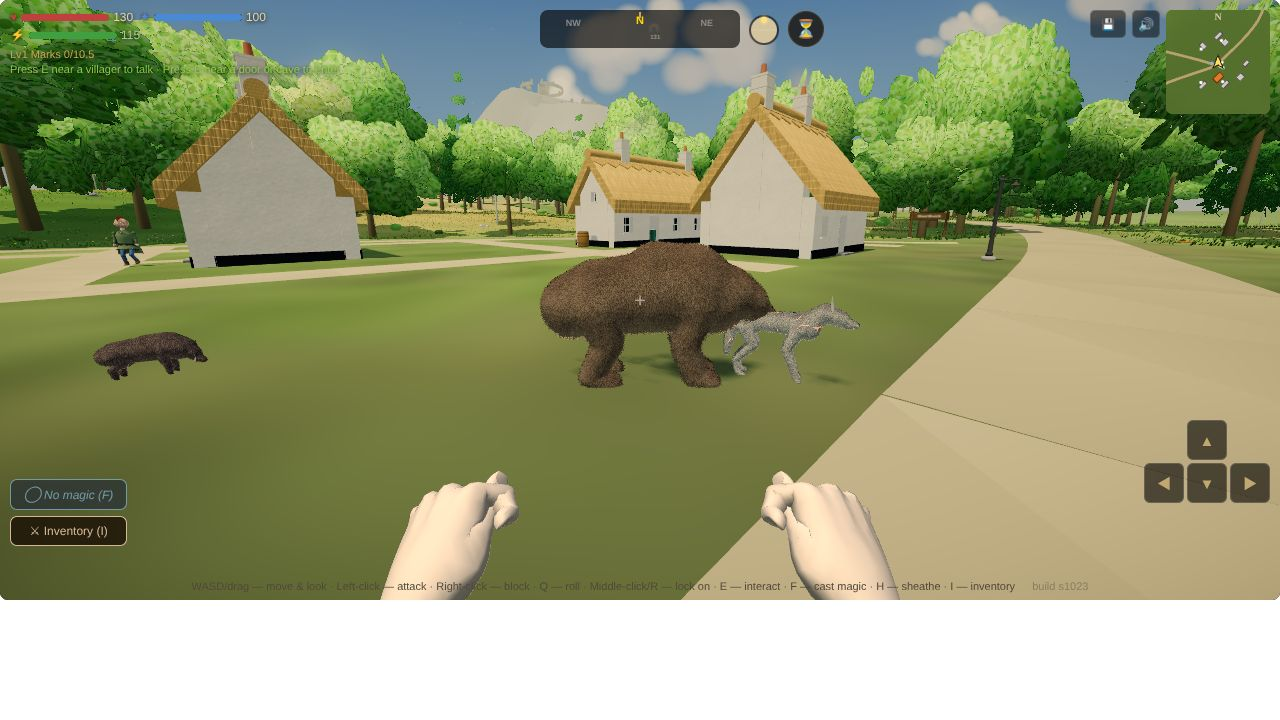
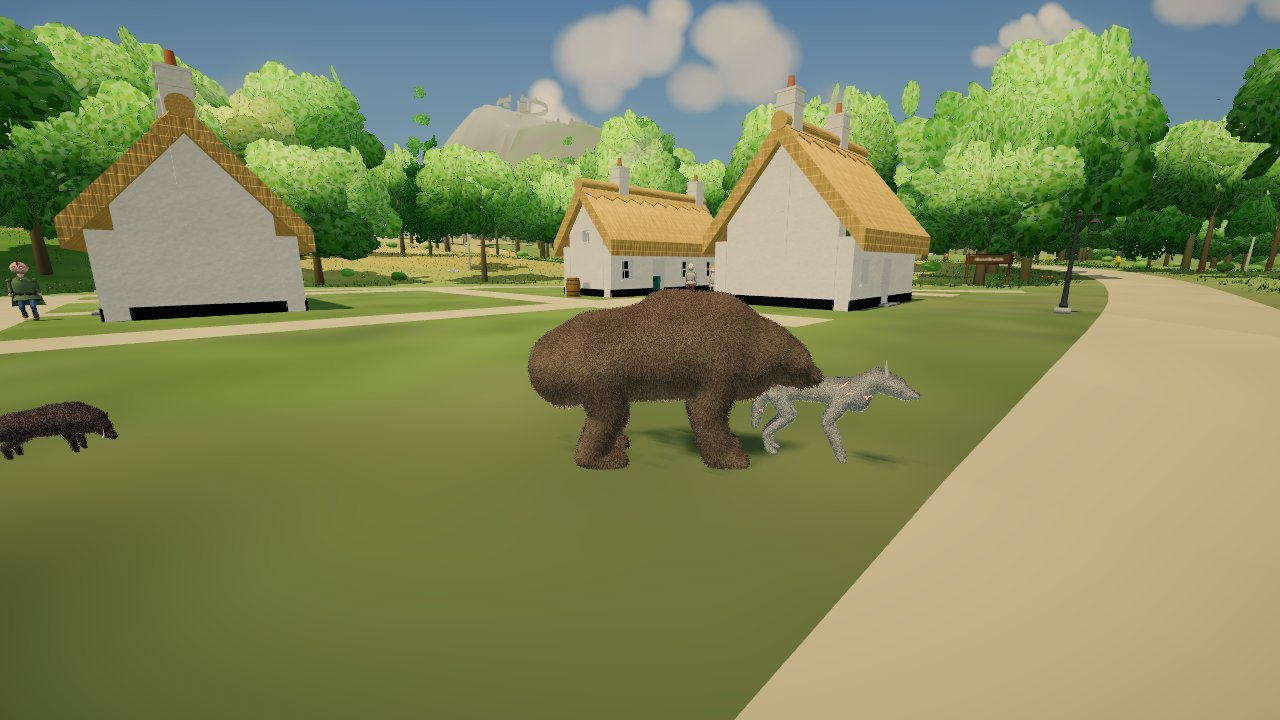
Bodies S2148: the ox and the yoked ox on a driver of their own (L3, OG-046)
buildAnimal('Ox' | 'Yoked Ox', key): the kit's ox and yokedox on WOLF_KINDS' Ox (the cow's legs, broader), keyed burden:<key>, which no spawn rolls. f4beasts +3 checks; its two later pictures read back from the canvas.

Claude-Session: https://claude.ai/code/session_019eFMMoi5DgANtJ4z6pTv3m

diff --git a/js/34-creatures.js b/js/34-creatures.js
@@ -37,6 +37,12 @@ const WOLF_KINDS={
   'Cow':       {coat:0x7a4d2e,saddle:0x5c361f,belly:0xdbd1bd,eye:0x0f0a08,horse:true,legK:1.8,legs:{fore:{root:[-.03,.03],a:[-.22,-.04],b:[-.22,.02],c:[-.23,.01]},hind:{root:[-.02,-.02],a:[-.2,.08],b:[-.2,-.1],c:[-.26,.01]}},hipY:.70,bulk:1.25,eyePos:[.05,.02,.03],world:1.78,farm:true},
   'Sheep':     {coat:0xdbd1b8,saddle:0xccc2a8,belly:0xc7bda3,eye:0x997f33,horse:true,legK:1.8,legs:{fore:{root:[-.03,.03],a:[-.22,-.04],b:[-.22,.02],c:[-.23,.01]},hind:{root:[-.02,-.02],a:[-.2,.08],b:[-.2,-.1],c:[-.26,.01]}},hipY:.70,bulk:1.1,eyePos:[.046,.02,.03],world:.935,farm:true},
   'Goat':      {coat:0x998a75,saddle:0x665747,belly:0xd6ccb8,eye:0xbf9933,horse:true,legK:1.8,legs:{fore:{root:[-.03,.03],a:[-.22,-.04],b:[-.22,.02],c:[-.23,.01]},hind:{root:[-.02,-.02],a:[-.2,.08],b:[-.2,-.1],c:[-.26,.01]}},hipY:.70,bulk:.85,eyePos:[.046,.02,.03],world:.80,farm:true},
+  // Session 2148 (L3, OG-046; backlog L3's "oxen on a driver of their own for the ox cart"): the beasts of burden's ox and the same ox under
+  // its yoke and bow (the kit's ox and yokedox, Session 867), on the cow's long legs and body, broader. burden marks a kind buildAnimal
+  // builds that no spawn rolls (the wild and farm tables read wild and farm only); its kit body keyed burden:<key>. world stands the kit's
+  // ox (the cow's plan at 1.15) at its own size: its hips at 1.43 m, the withers about a man's shoulder
+  'Ox':        {coat:0x52362a,saddle:0x382318,belly:0x8f755c,eye:0x0f0a08,horse:true,legK:1.8,legs:{fore:{root:[-.03,.03],a:[-.22,-.04],b:[-.22,.02],c:[-.23,.01]},hind:{root:[-.02,-.02],a:[-.2,.08],b:[-.2,-.1],c:[-.26,.01]}},hipY:.70,bulk:1.35,eyePos:[.05,.02,.03],world:2.047,burden:true},
+  'Yoked Ox':  {coat:0x52362a,saddle:0x382318,belly:0x8f755c,eye:0x0f0a08,horse:true,legK:1.8,legs:{fore:{root:[-.03,.03],a:[-.22,-.04],b:[-.22,.02],c:[-.23,.01]},hind:{root:[-.02,-.02],a:[-.2,.08],b:[-.2,-.1],c:[-.26,.01]}},hipY:.70,bulk:1.35,eyePos:[.05,.02,.03],world:2.047,burden:true},
   // Session 1727 (first numbered 1722) — the Gatelands' own (L3, OG-009; the kit's GATELANDS since Session 846), wild as the common set: the Elderstag on the deer's
   // legs, the Gatefen Boar on the boar's body, the Redspine Fox, the Hollowcat and the Greenward Stoat on the wolf's
   'Elderstag': {coat:0x754a2b,saddle:0x4e3019,belly:0xd8c8a8,eye:0x140c08,horse:true,legK:1.8,legs:{fore:{root:[-.03,.03],a:[-.22,-.04],b:[-.22,.02],c:[-.23,.01]},hind:{root:[-.02,-.02],a:[-.2,.08],b:[-.2,-.1],c:[-.26,.01]}},hipY:.70,bulk:.9,eyePos:[.048,.02,.03],world:1.66,wild:true},
@@ -339,8 +345,8 @@ function animalHash(str){let h=2166136261;for(let i=0;i<str.length;i++){h^=str.c
 // island's coat (HC.COATS, Sessions 865 and 866: the Mark's colder and greyer, Aurenne's sandier); the same bones and flesh, the same key
 function buildAnimal(name,key,island){const rig=buildAnimal0(name,key);if(rig&&ANIMAL_ISLES.includes(island))rig.hcIsland=island;return rig;}
 const ANIMAL_ISLES=['gatelands','mark','aurenne'];
-function buildAnimal0(name,key){if(BIRD[name])return buildBird(name,key);if(SWIMMER[name])return buildSwimmer(name,key);const k=WOLF_KINDS[name];if(!k||!(k.wild||k.farm))return null;const hind=name==='Deer'&&key!=null&&(animalHash(String(key))&1)===1;
-  const rig=buildWolf(name,k.world*(hind?.9:1));if(key!=null)rig.hcKey=(k.farm?'farm:':'wild:')+key;if(hind)rig.hcKind='Hind';return rig;}
+function buildAnimal0(name,key){if(BIRD[name])return buildBird(name,key);if(SWIMMER[name])return buildSwimmer(name,key);const k=WOLF_KINDS[name];if(!k||!(k.wild||k.farm||k.burden))return null;const hind=name==='Deer'&&key!=null&&(animalHash(String(key))&1)===1;
+  const rig=buildWolf(name,k.world*(hind?.9:1));if(key!=null)rig.hcKey=(k.farm?'farm:':k.burden?'burden:':'wild:')+key;if(hind)rig.hcKind='Hind';return rig;}
 // Session 1710: the raven and the crow (L3, for #984's A; the systems builder's note on S1707: "the raven and crow need a bird driver
 // before they can spawn"). A bird has no four legs for the wolf's driver, so it has none: `buildAnimal('Raven'|'Crow', key)` gives a
 // rig whose root holds a plain stand-in (a body, a head, a beak, a tail and two legs, one mesh, the far level and the old look's) and,
@@ -1029,7 +1035,7 @@ const HC_KINDS={'Wolf':{plan:'wolf'},'Snow Wolf':{plan:'wolf',own:true},'Dire Wo
   'Gargoyle':{plan:'gargoyle',own:true,person:true,merge:true,ik:true,glow:[1,.31,.13],glowR:.032,glowAt:{f:.8,up:.55,out:.5},garg:true},
   'Wraith':{plan:'wraith',own:true,person:true,legless:true,rest:HC_WRAITH_REST},'Phantom':{plan:'phantom',own:true,person:true,legless:true,rest:HC_WRAITH_REST},
   'Wraith (failing)':{plan:'failingwraith',own:true,person:true,legless:true,rest:HC_WRAITH_REST,arms:true,float:.05}, /* S1866 — its hem is 15% longer, so it rides 5 cm higher, clear of the floor */
-  'Deer':{plan:'deer',ik:true},'Hind':{plan:'deer',own:true,ik:true,bare:true},'Red Fox':{plan:'redfox'},'Brown Hare':{plan:'brownhare'},'Badger':{plan:'badger'},'Otter':{plan:'otter'},'Cow':{plan:'cow',ik:true},'Sheep':{plan:'sheep',ik:true},'Goat':{plan:'goat',ik:true},'Elderstag':{plan:'stag',ik:true},'Gatefen Boar':{plan:'gatefenboar'},'Redspine Fox':{plan:'redspinefox'},'Hollowcat':{plan:'hollowcat'},'Greenward Stoat':{plan:'stoat'},'Icehorn':{plan:'icehorn',ik:true},'Ironpine Elk':{plan:'ironpineelk',ik:true},'Craghorn Ram':{plan:'craghornram',ik:true},'Stormlynx':{plan:'stormlynx'},'Glacial Marmot':{plan:'glacialmarmot'},'Snowleap Hare':{plan:'snowhare'},'Duneskimmer':{plan:'duneskimmer',ik:true},'Terrace Ram':{plan:'terraceram',ik:true},'Sunspire Lynx':{plan:'sunspirelynx'},'Oasis Hare':{plan:'oasishare'},'Mirage Fox':{plan:'miragefox'},'Crownstag':{plan:'crownstag',ik:true},'Frostmane':{plan:'frostmane',ik:true},'Lanternfox':{plan:'lanternfox',night:true},'Thornrunner':{plan:'thornrunner'},'Stonejaw':{plan:'stonejaw'},
+  'Deer':{plan:'deer',ik:true},'Hind':{plan:'deer',own:true,ik:true,bare:true},'Red Fox':{plan:'redfox'},'Brown Hare':{plan:'brownhare'},'Badger':{plan:'badger'},'Otter':{plan:'otter'},'Cow':{plan:'cow',ik:true},'Sheep':{plan:'sheep',ik:true},'Goat':{plan:'goat',ik:true},'Ox':{plan:'ox',ik:true},'Yoked Ox':{plan:'yokedox',ik:true},'Elderstag':{plan:'stag',ik:true},'Gatefen Boar':{plan:'gatefenboar'},'Redspine Fox':{plan:'redspinefox'},'Hollowcat':{plan:'hollowcat'},'Greenward Stoat':{plan:'stoat'},'Icehorn':{plan:'icehorn',ik:true},'Ironpine Elk':{plan:'ironpineelk',ik:true},'Craghorn Ram':{plan:'craghornram',ik:true},'Stormlynx':{plan:'stormlynx'},'Glacial Marmot':{plan:'glacialmarmot'},'Snowleap Hare':{plan:'snowhare'},'Duneskimmer':{plan:'duneskimmer',ik:true},'Terrace Ram':{plan:'terraceram',ik:true},'Sunspire Lynx':{plan:'sunspirelynx'},'Oasis Hare':{plan:'oasishare'},'Mirage Fox':{plan:'miragefox'},'Crownstag':{plan:'crownstag',ik:true},'Frostmane':{plan:'frostmane',ik:true},'Lanternfox':{plan:'lanternfox',night:true},'Thornrunner':{plan:'thornrunner'},'Stonejaw':{plan:'stonejaw'},
   'Shark':{plan:'reefshark',fish:true},'Whale':{plan:'stormwhale',fish:true},'Dolphin':{plan:'stormswift',fish:true},'Gull':{plan:'gull',fish:true,own:true,cell:.014},'Raven':{plan:'raven',fish:true,own:true,cell:.014},'Crow':{plan:'crow',fish:true,own:true,cell:.012},'Trout':{plan:'trout',fish:true,own:true,cell:.014},'River Pike':{plan:'riverpike',fish:true,own:true,cell:.02},'Riverjaw Salmon':{plan:'riverjaw',fish:true,own:true,cell:.02},'Mire Snake':{plan:'miresnake',fish:true,own:true,cell:.016},'Lantern Beetle':{plan:'lanternbeetle',fish:true,own:true,cell:.03},'Stonecrawler':{plan:'stonecrawler',fish:true,own:true,cell:.01},'Marsh Frog':{plan:'marshfrog',fish:true,own:true,cell:.012},'Bellthroat':{plan:'bellthroat',fish:true,own:true,cell:.016},'Mossback':{plan:'mossback',fish:true,own:true,cell:.05},'Sailshell':{plan:'sailshell',fish:true,own:true,cell:.053},'Shatterhorn':{plan:'shatterhorn',fish:true,own:true,cell:.17},'Mineprowler':{plan:'mineprowler',fish:true,own:true,cell:.045},'Frostspine Lizard':{plan:'frostspinelizard',fish:true,own:true,cell:.01},'Icecrab':{plan:'icecrab',fish:true,own:true,cell:.02},'Saltspine Monitor':{plan:'saltspinemonitor',fish:true,own:true,cell:.008},'Spined Gekko':{plan:'spinedgekko',fish:true,own:true,cell:.01},'Amber Shellcrab':{plan:'ambershellcrab',fish:true,own:true,cell:.02},'Sand Wyrm':{plan:'sandwyrm',fish:true,own:true,cell:.01},'Hen':{plan:'hen',fish:true,own:true,cell:.012},'Great Heron':{plan:'heron',fish:true,own:true,cell:.016},'Crag Hawk':{plan:'craghawk',fish:true,own:true,cell:.014},'Capercaillie':{plan:'capercaillie',fish:true,own:true,cell:.016},'Skyraven':{plan:'skyraven',fish:true,own:true,cell:.014},'Stormshrike':{plan:'stormshrike',fish:true,own:true,cell:.014},'Tundra Grouse':{plan:'tundragrouse',fish:true,own:true,cell:.012},'Scarlet Ibis':{plan:'scarletibis',fish:true,own:true,cell:.016},'Cypress Stalker':{plan:'cypressstalker',fish:true,own:true,cell:.016},'Sunbeak Vulture':{plan:'sunbeakvulture',fish:true,own:true,cell:.016},'Dusk Eagle':{plan:'duskeagle',fish:true,own:true,cell:.03},'Cliffswift':{plan:'cliffswift',fish:true,own:true,cell:.01},'Glasswing Moth':{plan:'glasswingmoth',fish:true,own:true,cell:.014},'Glasswing':{plan:'glasswing',fish:true,own:true,cell:.016},'Stormplume':{plan:'stormplume',fish:true,own:true,cell:.028},'Redcrest':{plan:'redcrest',fish:true,own:true,cell:.016},'Sunfan':{plan:'sunfan',fish:true,own:true,cell:.016},'Slime':{plan:'slime',fish:true},'Slime (failing)':{plan:'failingslime',fish:true},'Slime (tine)':{plan:'magmaslime',fish:true},'Fire Elemental':{plan:'fireelemental',fish:true}};
 // Session 1867 (L4, OG-073): a failing gate's skeletons, the sword's and the spear's, on the kit's failing skeleton: two more pairs of arms
 // (posed by hcArms), spurs down the back, more ribs, the bones cracked and only the cracks lit white-gold. What each holds is the game's,

diff --git a/docs/backlog.md b/docs/backlog.md
@@ -677,7 +677,7 @@ Michael marked all 96 images of the intake on the review page: 63 KEEP and 33 NO
 - **The strange beasts** (OG-040): the Crownstag, the Mossback (a tortoise carrying a garden), the Bellthroat (its call at dusk), the Lanternfox, the Thornrunner; the Shatterhorn, the Frostmane (a pack beast), the Glasswing, the Stonejaw, the Stormplume; the Redcrest, the Sunfan, the Mineprowler, the Sailshell. Wonder without menace, mostly peaceful. A few have six legs, and that is ordinary (Michael's 9 A). **All fourteen are plans in the kit, Session 853** (bodies builder; `creatures.js` `STRANGE`, `creatures-strange.jpg`): six from Sessions 773 to 775 and eight new (the Crownstag, the Lanternfox, the Thornrunner, the Frostmane, the Glasswing, the Stonejaw, the Redcrest, the Sunfan); owed: the game, after F4: ~~the Crownstag, the Lanternfox, the Thornrunner, the Frostmane and the Stonejaw~~ have bodies in it since Session 1852 (`buildAnimal`, wild, on the wolf's driver; `f4animals`; `docs/prototypes/f4/f4-strange.jpg`; ~~the spawn is the systems builder's~~ — done, Session 1870: in their islands' tables by the catalogue's habitat and rarity, the Crownstag and the Frostmane give a deer's meat; ~~the Lanternfox's glow by night only~~ — done, Session 1853, `hcNightK`); ~~the Glasswing, the Stormplume, the Redcrest and the Sunfan (the birds' path)~~ — done, Session 1892 (`BIRD`, `HC_KINDS` in `34-creatures.js`, at the kit's own size, 1.07 to 2.69 m beak to tail; `f4animals`; their spawn is the systems builder's; ~~in the tables~~ — **done, Session 1895**: the Glasswing and the Stormplume on the Mark's tundra and moor, the Redcrest in packs of 2 to 4 in Aurenne's scrub, the Sunfan on its plains and dunes, all rare 0.5; the Stormplume and the Redcrest answer back, #1050 A; `wildlife`); ~~the six-legged Shatterhorn and Mineprowler (need a driver of their own)~~ — done, Session 1907 (on the crawlers' path, the kit posing all six legs: 6.3 m at the walk, 2.4 m at the trot; `f4animals`; ~~in the tables~~ — **done, Session 1911**: the Shatterhorn 0.5 on the Mark's tundra, the Mineprowler 1 in Aurenne's dunes and wastes and answering back, #1050 A; `wildlife`), ~~the Mossback and the Sailshell (the shell's walk)~~ — done, Session 1906 (on the crawlers' path at the kit's own size, 2.2 and 1.9 m, the kit's walk; `f4animals`; ~~in the tables~~ — **done, Session 1911**: the Mossback 1 in the Gatelands' woods, the Sailshell 2 in Aurenne's dunes, wastes and scrub; `wildlife`); ~~the Bellthroat (the frog's path)~~ — done, Session 1893 (`SWIMMER`, 0.37 m at the kit's own size, hopping; `f4animals`); ~~in the tables~~ — **done, Session 1895** (the Gatelands' fen at 2, alone; ~~its call at dusk is still the sound's~~ — **done, Session 1913**: `sndBellthroat`, three booms and an echo at the clock's dusk within 150 m, about every 12 s; `wildlife`; ~~the sac swelling as it calls~~ — **done, Session 1914**: `hcBellSac`, `BELL_SAC`, filled over the three booms to about twice its size, empty 0.3 s after; `f4animals`). ~~The Stormplume and the Redcrest fight posed by their motion alone~~ (the systems builder, Session 1896) — **done, Session 1915**: the kit's kick (`KICK`, `C.kick` in `creatures.js`), chambered by the wind-up and struck through the lunge, feet alternating (`hcBirdKick`, `KICKERS`; `f4animals`). ~~The Mossback's garden thin in play~~ (Session 1906's note) — **done, Session 1920**: the kit's garden thickened on cheaper plants (two-triangle blades; moss mounds, grass, shrubs and flower clusters, `shell`'s `garden` options), the Mossback's about 1,850 tris; `f4-mossback-garden.jpg`.
 - **The sea** (OG-016, OG-084, OG-031): tidecrab, moray, rays, lantern jelly, flying fish, squid, seals, dolphins, octopus, turtles; the Shatterback and the maw turtle as landmarks mistaken for rock; the gate eel and the Gate Leviathan as a sea gate's antibodies (the Mouth, the Vault of the Tide), seams glowing. **Seventeen are plans in the kit, Session 854** (bodies builder; `creatures.js` `SEA`, `creatures-sea.jpg`): the reef moray, the starweed and sailfin rays, the lantern jelly, the coastal tuna, the skyskimmer, the Stormswift (a dolphin), the drifter squid, the reef shark (~~a shark of its own, not the salmon recoloured~~ — done, Session 1528: the game's shark, Michael's A on S230, as the brief; `creatures-reefshark*.jpg`; ~~the gill bands' chequer~~ — done, Session 1530 (slits as ribbons on the grown skin, `gillSlits`); ~~owed: the game's Shark wearing it~~ — done, Session 1529: on the new look, posed by the kit's swim gait at the old tail's beat, `hcFishRig`; `f4sharks`), the grey seal, the blackcurrent eel, the gate eel and the Gate Leviathan, beside the Tidecrab, the Storm Whale (~~the game's whales wearing it~~ — done, Session 1536: on the new look, `hcWhaleRig`, the fluke's beat at a quarter stroke a second; `f4sharks`; ~~the bow-wave dolphins as the Stormswift~~ — done, Session 1537, `hcDolphinRig`), the octopus and the Shatterback; owed: the game, after F4; ~~the kelpstrider~~ — done, Session 863 (leafy fronds in the kit); ~~the pierwinkle~~ — done, Session 862 (a coiled shell in the kit); ~~the stonefish, the abyssal angler and the crimson leviathan~~ — done, Session 856; ~~turtles (a sea turtle and the maw turtle need flippers)~~ — done, Session 861 (flippers in the kit: flattened arms that stroke). ~~The ports' gulls on the kit~~ — done, Session 1595 (a `gull` plan, the raven's flier in a herring gull's colours, `SHORE`; on the new look `spawnGulls`' four wear it, `hcGullRig`, 4,252 triangles each at the game's cell; `f4sharks`, `docs/prototypes/f4/f4-gull.jpg`, `creatures-gull*.jpg`). ~~The shallows' fish schools on the kit~~ — done, Session 1599 (a `herring` plan in `SHORE`, the salmon's body slimmer and silver under a blue-green back, `saddleUp` in the kit; on the new look every school within 35 m of the eye draws it baked once and instanced, its tail swung in the shader, `hcSchools`; the old cones past it; `f4sharks`, `docs/prototypes/f4/f4-herring.jpg`, `creatures-herring.jpg`).
 - **Livestock** (OG-023, OG-035): chickens, goats, sheep, cows and bees on farms and in fields. **Prototyped as plans in the kit, Session 844** (bodies builder; `creatures.js` `LIVESTOCK`, `creatures-livestock.jpg`): the cow, the sheep, the goat and the hen build and walk; owed: the bees (not skeletal), and the game (after F4): ~~the cow, the sheep and the goat~~ in it since Session 1719 (`buildAnimal`, keyed `farm:<key>`, on the deer's legs; `f4animals`), ~~the hen~~ since Session 1720 (the birds' path, no driver; she runs at a trot and never soars), and ~~their place on the farms (a spawn: the systems builder's, or the look builder's farm dressing)~~ — **done, Session 1973** (`wildFarmChunk`, `88-world-ticks.js`: every Gatelands farm, village or lone, keeps two to four hens in its yard by day and a herd in the field behind or beside it, two or three cows, three to five sheep or two or three goats, keyed `farm:<id>:h<i>`/`f<i>`; tame, `FARM_TAME` 3 m; no meat, no crime yet, asked; `kitfarm` +2; a paddock wall is the look builder's if wanted); ~~breeds by island~~ — done, Session 866 (`COATS`); in the game since Session 1721 (`buildAnimal(name, key, island)`, for the common set too); ~~a cow's patches~~ — done, Session 845 (a patches pattern in the kit).
-- **Beasts of burden and wagons** (OG-046, OG-077): horse, mule, donkey, ox, camel, reindeer, yak; covered and merchant wagons, the stagecoach, supply carts on the roads. OG-077's post-rider on a horse-sized hare is the brief's licence made ordinary: one on the Gatelands' roads. **The animals are plans in the kit, Session 855** (bodies builder; `creatures.js` `BURDEN`, `creatures-burden.jpg`): the horse, the mule, the donkey, the ox, the camel, the reindeer, the highland yak and a saddled giant goat, beside the post hare (Session 773); OG-046's llama is the Frostmane and its cow the livestock's. Owed: the wagons and carts (props: the look builder's), and the game, after F4; ~~harness and packs~~ — done, Session 867 (`packs` and `harness` in the kit: the pack mule, the draught horse, the yoked ox). **The horse heavier, Session 1261** (bodies builder; S1251 found the kit's horse a thin-legged foal at the coach's size): a deeper barrel, a deep flat neck with a mane (the kit's new `mane`, a crest in its own tone), a broader head, legs a third thicker, a full tail; the draught horse's collar fitted to the grown skin. ~~the coach's team on it (a key per horse from `buildCoachLine`)~~ — done, Session 1273 (the bay and the grey on the kit's horse behind the new look, keyed `coach:<road>:<i>`, each leg bent onto the driver's hoof height, `hcLegIK`; `f4beasts`). **The wagons and carts prototyped by the concept artist, 2 Nov** (`docs/prototypes/levelup/wagons.js`, `wagons.html`; docs/concepts.md): three an island on one running gear (spoked and disc wheels, shafts, a pole, a yoke, runners), each with its team from the kit, with how far the islands differ asked as a DECISION. Michael's B on #1046 (3 Nov): each island its own three, with its own animals. ~~the coach's team by island~~ — done, Session 1825 (bodies builder: the Mark's fjord dun on the kit's horse, `COATS.mark.horse`, taken by every plan with `coatAs: 'horse'`; in the game `buildCoachBeast` gives the Mark's coach two dun horses and Aurenne's two mules, the Gatelands' the bay and the grey as before). Owed: the vehicles themselves in the game (the Mark's carved wagon and Aurenne's carpentum in place of the one coach), and oxen on a driver of their own for the ox cart.
+- **Beasts of burden and wagons** (OG-046, OG-077): horse, mule, donkey, ox, camel, reindeer, yak; covered and merchant wagons, the stagecoach, supply carts on the roads. OG-077's post-rider on a horse-sized hare is the brief's licence made ordinary: one on the Gatelands' roads. **The animals are plans in the kit, Session 855** (bodies builder; `creatures.js` `BURDEN`, `creatures-burden.jpg`): the horse, the mule, the donkey, the ox, the camel, the reindeer, the highland yak and a saddled giant goat, beside the post hare (Session 773); OG-046's llama is the Frostmane and its cow the livestock's. Owed: the wagons and carts (props: the look builder's), and the game, after F4; ~~harness and packs~~ — done, Session 867 (`packs` and `harness` in the kit: the pack mule, the draught horse, the yoked ox). **The horse heavier, Session 1261** (bodies builder; S1251 found the kit's horse a thin-legged foal at the coach's size): a deeper barrel, a deep flat neck with a mane (the kit's new `mane`, a crest in its own tone), a broader head, legs a third thicker, a full tail; the draught horse's collar fitted to the grown skin. ~~the coach's team on it (a key per horse from `buildCoachLine`)~~ — done, Session 1273 (the bay and the grey on the kit's horse behind the new look, keyed `coach:<road>:<i>`, each leg bent onto the driver's hoof height, `hcLegIK`; `f4beasts`). **The wagons and carts prototyped by the concept artist, 2 Nov** (`docs/prototypes/levelup/wagons.js`, `wagons.html`; docs/concepts.md): three an island on one running gear (spoked and disc wheels, shafts, a pole, a yoke, runners), each with its team from the kit, with how far the islands differ asked as a DECISION. Michael's B on #1046 (3 Nov): each island its own three, with its own animals. ~~the coach's team by island~~ — done, Session 1825 (bodies builder: the Mark's fjord dun on the kit's horse, `COATS.mark.horse`, taken by every plan with `coatAs: 'horse'`; in the game `buildCoachBeast` gives the Mark's coach two dun horses and Aurenne's two mules, the Gatelands' the bay and the grey as before). Owed: the vehicles themselves in the game (the Mark's carved wagon and Aurenne's carpentum in place of the one coach), and ~~oxen on a driver of their own for the ox cart~~ — done, Session 2148 (`buildAnimal('Ox' | 'Yoked Ox', key)`: the kit's ox and yokedox on WOLF_KINDS' Ox, keyed `burden:<key>`, which no spawn rolls; `f4beasts`), so the ox cart is the look builder's to hitch.
 
 ### L4. The gates' foes (with C's gates by school)
 - **Each school's hall and antibodies** (look and systems; OG-018, which draws §9a exactly): Tine forge-hot, Uisce drowned, Cloch fallen masonry, Scáth violet dark, Solas white light, Gaoth open to the sky; occupied gates as goblin warrens. New foes: Magma Slime (**in the game, Session 1882**: a Tine gate's Slime and Small Slimes wear the kit's `magmaslime`, in any condition; `hcSlimeKind`, `tests/f4slimes`), Drowned Skeleton (**in the game, Session 1878**: an Uisce gate's Skeleton wears the kit's `drownedskeleton`, a failing one's still the failing skeleton; `hcSkelKind`, `tests/f4bones`), Frost Thing (needs a folk shape under the ice; two plans in the kit, Session 958, `frostshard` and `frostfolk`; Michael's B on DECISION #362, the folk shape, `frostfolk`; ~~its face~~ — done, Session 968: the skeleton's skull inside his head, seen through ice thinned to 0.4 over the face, `faceClear` in the kit; `creatures-frostfolk-head.jpg`, `-front.jpg`; owed: the game, after F4), Wisp and Winged Thing, which fill Gaoth, the school with no foes yet. **The Winged Thing is a plan in the kit, Session 955** (bodies builder; `creatures.js` `wingedthing`, `creatures-wingedthing.jpg`, `-fly.jpg`): a griffin of a big cat's body, an eagle's head and beak, feathered wings and a feathered tail fan, pale storm-grey; ~~eagle's talons for its forefeet~~ — done, Session 960 (`talonFore`, a hind toe on `claws.back`; `creatures-wingedthing-front.jpg`); ~~hooked, not straight~~ — done, Session 970 (`claws.hook` in the kit: each claw arches onto its point, its tip where a straight one's is; `creatures-wingedthing-foot.jpg`, from the bestiary's new `cam=foot`); ~~its folded wing's feathers fanned out sideways from the wrist~~ — done, Session 974 (a quill bone for every flight feather in the kit, turned back along the body when the wing folds, on all nine feathered fliers; `creatures-wingedthing-folded.jpg`, `creatures-craghawk-folded.jpg`, `creatures-duskeagle-folded.jpg`); ~~the folded wing a thin dark line from the side~~ — done, Session 983 (each quill also rolled about its own line so the card leans down over the flank, faces 39 degrees from facing out on average where they were 84; `creatures-wingedthing.jpg` against `creatures-wingedthing-side-before.jpg`); ~~the Dusk Eagle's ragged primaries closing like a whole wing~~ — done, Session 984 (`feathers.ragged` fans the few primaries down the flank when folded, 3.2 degrees between neighbours where the hawks' stack at 0.6; `creatures-duskeagle-perched.jpg`, `creatures-duskeagle-folded.jpg`); owed: the game (after F4). **OG-018's gargoyles are plans, Session 956** (`gargoyle` for Cloch, moss-stained stone, and `gaothgargoyle`, weathered pale, wings a quarter wider; `GARGOYLES`; `creatures-gargoyle.jpg`, `-front.jpg`, `-fly.jpg`, `creatures-gaothgargoyle.jpg`): the goblin's crouched frame in stone, horns, a tail, a stone ridge, bat wings folded up behind the shoulders by `wingRest`; the wings' stone skin drew near black, ~~fixed~~ — done, Session 959 (`wingLight`: a skin wing gives back a share of its colour as light through it; the dragon's too); ~~owed: the game's dormant Gargoyle replaced (after F4)~~ — done, Session 1375 (Cloch's, `f4gargoyles`); ~~Gaoth's in a Gaoth gate~~ — done, Session 2082 (`hcGargKind`: a steady Gaoth gate's Gargoyle wears `gaothgargoyle`, a failing one's the failing gargoyle; `f4gargoyles`, `docs/prototypes/f4/f4-gaothgargoyle.jpg`). **OG-018's Phantom is a plan in the kit, Session 1428** (bodies builder; `creatures.js` `phantom`, `PHANTOMS`; `creatures-phantom-front.jpg`, `-side.jpg`, `-back.jpg`, `-head.jpg`, `-hover.jpg`): the wraith's legless floating body and claws (Michael's B on #158), its face kept, two hollow sockets with a pale light each and a hollow wailing mouth, five locks of hair streaming down its back, clearer (0.58) and a tenth smaller than the wraith; ~~the Wraith and the Phantom on the kit's bodies in the game~~ — done, Session 1429 (`HC_KINDS`' `legless`, `HC_WRAITH_REST`; `tests/f4wraiths`, `docs/prototypes/f4/f4-wraiths.jpg`).

diff --git a/docs/devlog/2148.md b/docs/devlog/2148.md
@@ -1,0 +1,37 @@
+## v80 — Session 2148 — the ox and the yoked ox on a driver of their own (L3, OG-046)
+The bodies builder's run of 12 Nov, on `auto/bodies-2148`. No `FREEZE:` issue; the last bodies branch (2144) had landed; the highest
+session anywhere was 2147 (on `auto/systems-2147`). Section I holds nothing for this lane. The item S2144 named next, the Royal Mage
+Corps' seal, would be an invented device that the canon does not give, so it waits for the quest writer's words. This session takes the
+other item it named: backlog L3's "oxen on a driver of their own for the ox cart". The kit has had the ox and the yoked ox as plans since
+Sessions 855 and 867. The game could build only the horse, the grey horse and the mule for a team (`buildCoachBeast`), and the cow for a farm.
+
+**The driver** (`js/34-creatures.js`, `WOLF_KINDS`). `Ox` and `Yoked Ox` stand on the cow's long legs, as the cow does (Session 1719).
+Their bulk is 1.35 against the cow's 1.25, and their far body, the driver's own past the kit's last level, is the ox's dark brown.
+`world` is 2.047, the cow's 1.78 times the kit's 1.15, so the kit's ox stands at its own size in metres: its hips at 1.41 m and its
+horns about 1.12 of a Gatelander's height. A new flag, `burden`, marks a kind that `buildAnimal` builds and that no spawn rolls: the
+wild and farm tables (`42-zone-enemies.js`, `88-world-ticks.js`) read `wild` and `farm` only, and are untouched. The kit body is keyed
+`burden:<key>`. `HC_KINDS` maps `Ox` to the kit's `ox` and `Yoked Ox` to its `yokedox`, both with the legs bent onto the driver's
+hooves (`ik`, as the horse's and the cow's). On one key the two are the same beast: the same hide (30,828 tris, 31 bones, 24 of the
+driver's joints driving them), with the yoke and its bow two more rigid pieces on the first neck bone. So a cart's pair is
+`buildAnimal('Yoked Ox', '<cart>:<i>')`, placed in a group by the caller as the coach's horses are. A rig moved by its group walks by the
+ground it covers. Hitching them to a cart is the look builder's, with the vehicles (backlog L3: "the vehicles themselves in the game").
+
+The two kinds also join the mesh inspector's "On the wolf kit" list, which reads `WOLF_KINDS` (two entries; the catalogue file is
+rewritten by the inspector's own test on its next run).
+
+### Verified (headless Chromium)
+- `f4beasts` +3 checks: the ox and the yoked ox wear the kit's `ox` and `yokedox`, keyed `burden:`; on one key the same hide and genome,
+  the yoke and bow the only difference (2 more pieces, 396 tris); each stands on its hooves (toes 0.001–0.009 m off the ground) with its hips at 1.41–1.42 m
+  and its horn tips at 1.11–1.12 of a man; walked at 1.1 m/s, the yoked ox's bones move and its lowest hoof stays within 6 mm of the ground.
+  `f4beasts` 1/1, 26 checks, no page errors. A first run checked the yoke by the hide's triangle count, which does not hold the rigid pieces; the check now counts them.
+- The suite's two later pictures (`f4-beasts.jpg`, `f4-beasts-near.jpg`) were Playwright screenshots, and on the second run both tries
+  ran past their 120 s waiting on the live loop's queue of frames. They are now one frame drawn and read back from the canvas, f4animals'
+  way since S1745. The pictures are the same views.
+- `buildAnimal('Wolf')` is still null (a foe is not an animal). `parsecheck` OK.
+- Picture: `docs/prototypes/f4/f4-oxen.jpg` (the plain ox and the two yoked, side on, the foes of the suite's earlier checks hidden).
+
+### Needs eyes
+- At the game's distances the yoke is a dark bar across the neck. Whether it reads as a yoke from the road is for a playtest once a cart
+  hitches them.
+- The ox has no island coats in the kit (the cow has the Mark's black and Aurenne's cream). Every ox is the kit's dark brown for now.
+  A coat per island is one entry in `COATS` each, if the carts by island want it.
